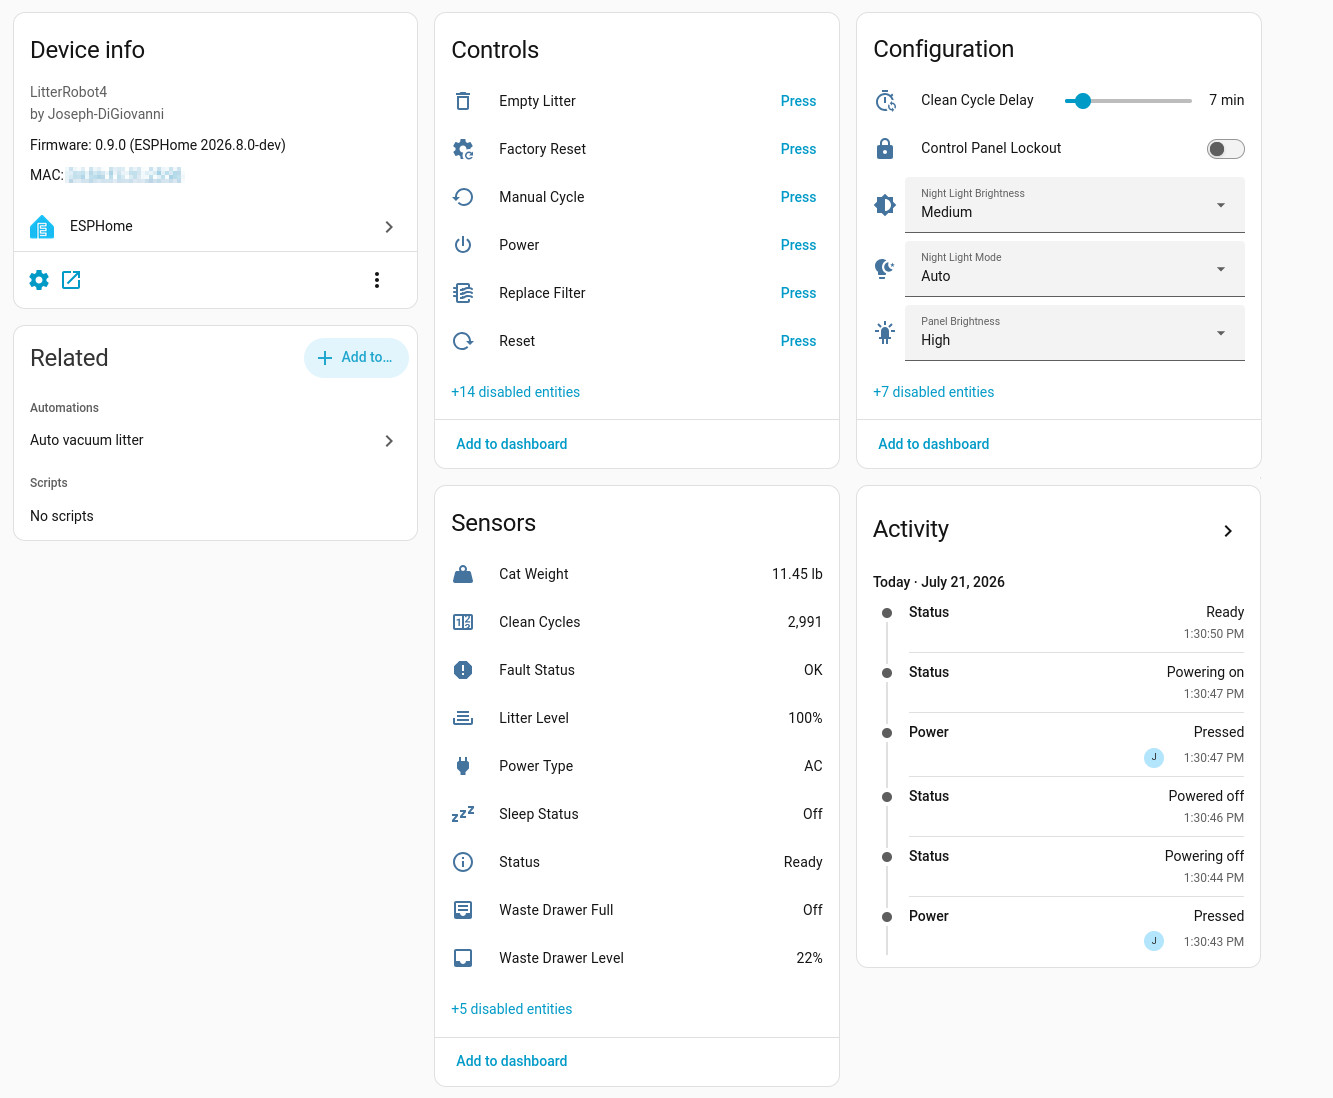
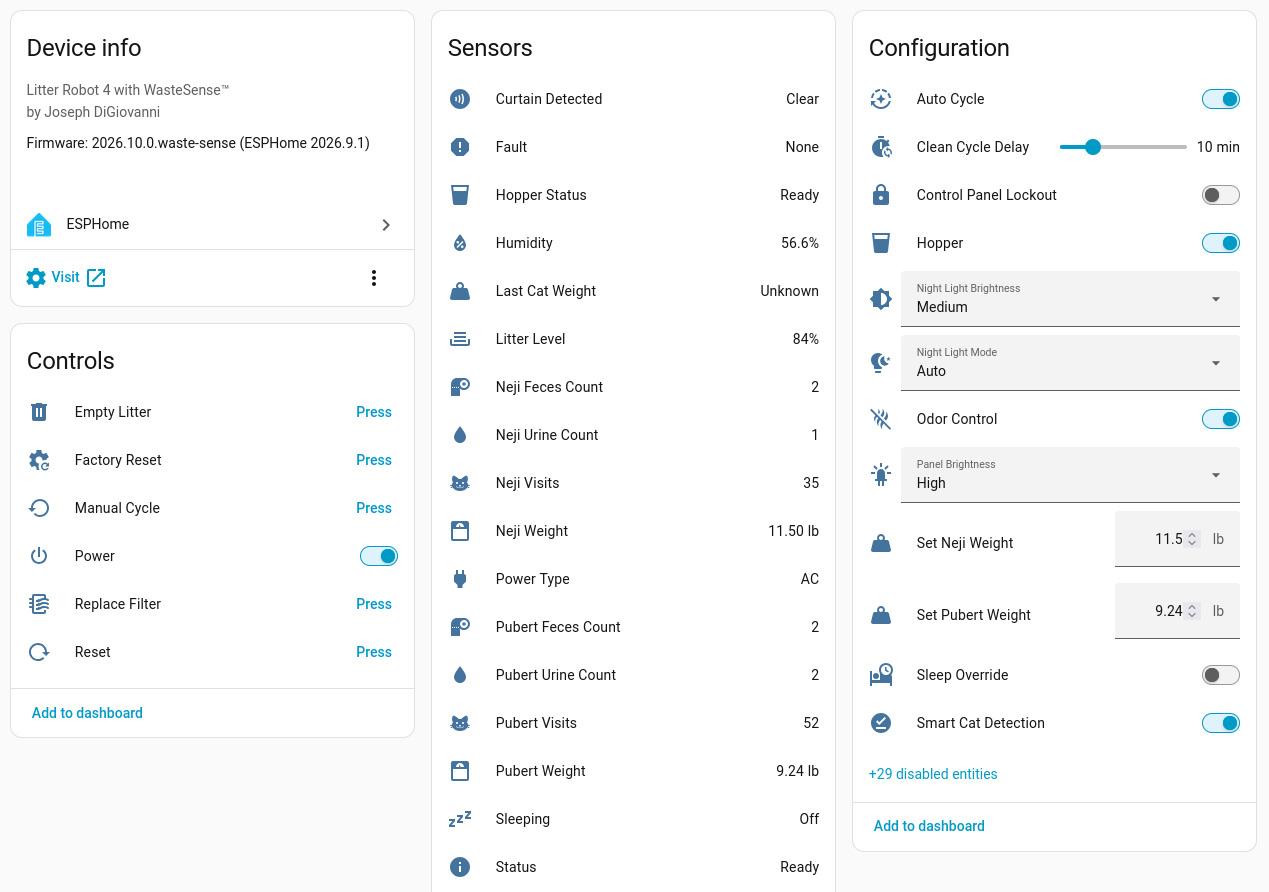
Update docs

diff --git a/docs/Litter Robot 4/Flashing Instructions.md b/docs/Litter Robot 4/Flashing Instructions.md
@@ -1,6 +1,6 @@
 # Litter Robot 4 - Firmware Flashing Guide
 
-This guide covers replacing the stock ESP32 firmware on the Litter Robot 4 mainboard with custom ESPHome firmware. The process is fully reversible and you can restore the original firmware at any time. After ESPHome is on the device, future updates can be delivered wirelessly ([OTA](#updating-the-firmware-ota)).
+This guide covers replacing the stock ESP32 firmware on the Litter Robot 4 mainboard with custom ESPHome firmware. The process is fully reversible and you can restore the original firmware at any time. After ESPHome is on the device, future updates can be delivered wirelessly ([OTA](User%20Guide.md#updating-the-firmware-ota)).
 
 Feel free to join the [Discord server](https://discord.gg/NrMdSAkPsx) for assistance or discussion, before and after install!
 
@@ -26,13 +26,13 @@ There are 2 known major revisions of the Litter Robot 4 mainboard. Both will wor
 
 - **USB-C cable**
 
-### For serial numbers starting with "LR4C":
+### For Serial Numbers Starting with "LR4C":
 
 - **Soldering iron** (fine/curved tip) and solder
 
 - [**1.27mm (0.05") pitch 2x3 6 position surface-mount header**](https://www.ebay.com/itm/336714254669) (sold directly by me in the US) - Also available from [DigiKey](https://www.digikey.com/en/products/detail/sullins-connector-solutions/GRPB032VWQS-RC/1786412) globally.
 
-### For serial numbers starting with "LR4S":
+### For Serial Numbers Starting with "LR4S":
 
 #### Option 1 - Solderless:
 
@@ -59,6 +59,8 @@ There are 2 known major revisions of the Litter Robot 4 mainboard. Both will wor
   ```
 
   The compiled binary will be in `./.esphome/build/litter-robot4/build/firmware.factory.bin` relative to the `.yaml` file.
+
+> If you intend to do the [WasteSense™](WasteSense%20Install.md) hardware modification, you should flash the `waste-sense` variant of the firmware from the precompiled release or build it with `litter-robot4-waste-sense.yaml`. You can also update to it later.
 
 ---
 
@@ -105,7 +107,7 @@ Unplug the larger power connector on the right side of the mainboard. Remove the
 To connect the ESP-Prog-2 to the mainboard to backup/flash the firmware, follow the instructions based on the serial number of your Litter Robot:
 
 <details>
-<summary>For serial numbers starting with "LR4C"</summary>
+<summary>For Serial Numbers Starting with "LR4C"</summary>
 <br>
 
 Plug the included 6 pin ribbon cable into the top right header on the ESP-Prog-2. It should be keyed to only plug in one way, with pin 1 (indicated by a pink wire) on the left side.
@@ -132,7 +134,7 @@ The mainboard must be powered externally to read/write the flash of the ESP32. I
 </details>
 
 <details>
-<summary>For serial numbers starting with "LR4S"</summary>
+<summary>For Serial Numbers Starting with "LR4S"</summary>
 <br>
 
 The mainboard has 5 unpopulated through-hole pads on the left side next to the ESP32, it is labeled "J3". You will need to scrape off the thin layer of conformal coating on them to make electrical contact. A fine fiberglass brush is ideal for this, but you can do it gently with a razor blade or other sharp object. Just be careful not to cut any traces.
@@ -232,68 +234,13 @@ Hard resetting via RTS pin...
 
 ---
 
-## First Boot & Setup
+## Reassembly
 
-On first boot, the ESPHome firmware will start in **WiFi access point mode** with a captive portal:
+Now that the new firmware is flashed, you can once again follow [Whisker's official video guide for replacing the laser board](https://youtu.be/m9pkoDCwM14?t=128) from 2:08 to reassemble, or just follow the disassembly instructions in reverse.
 
-1. Connect to the WiFi network `litter-robot4-XXXXXX` (password: `Wh1sk3rM30wM30w`).
+## Next Steps
 
-2. A captive portal should appear. If it doesn't, navigate to `http://192.168.4.1` in a browser.
-
-3. Select your home WiFi network and enter its password. The LR4 will reboot and connect to your network.
-
-### Reassembly
-
-Now that you've verified the new firmware is working, you can once again follow [Whisker's official video guide for replacing the laser board](https://youtu.be/m9pkoDCwM14?t=128) from 2:08 to reassemble, or just follow the disassembly instructions in reverse.
-
-### Adding to Home Assistant
-
-The device should be auto-discovered by the ESPHome integration. If it doesn't appear, add it manually with the device's hostname or IP address.
-
-> The hostname is usually the same name as the access point earlier. You can find the hostname or IP in your router device list.
-
-All entities will now be available in Home Assistant. Some may be disabled by default to avoid cluttering your dashboard. You can enable them in the device page.
-
-![Home Assistant](Images/Home%20Assistant.JPG)
-
-#### Sleep Schedules
-
-Independent sleep schedules for every day of the week are supported. Each day has three entities:
-
-- A day-enable switch (e.g. "Sunday Sleep Schedule") that turns that day's schedule on or off.
-- A sleep time and a wake time (e.g. "Sunday Sleep Time" and "Sunday Wake Time").
-
-Enable the days you want to schedule and set their sleep and wake times. The schedule runs on the mainboard's real-time clock, which is kept in sync with local time from Home Assistant.
-
-#### Multi-Cat Tracking
-
-The precompiled firmware includes weight, visit-count, and reset entities for four cats. To track a cat:
-
-1. Rename the cat's entities with the desired names.
-2. To seed a starting weight, enable the cat's **Set Cat N Weight** number and set your best guess. Enable the matching **Cat N Weight** sensor to see the value the tracker is currently using.
-3. Enable the cat's visit entities if you want to see and chart them.
-
-The firmware matches each new weight reading to the nearest configured cat weight and increments that cat's visit counter, replacing the guessed weight with a real measurement over time. There is a 0.6 pound detection tolerance to avoid obviously false readings by default. Use a cat's reset button (e.g. **Cat 1 Reset**) to clear that cat's stored weight and counters (the Litter Robot's own Factory Reset does not clear the tracker data).
-
-### Web Server
-
-The default configuration hosts a web server from the device IP address. The default username is `user` and the password is `Wh1sk3rM30wM30w`.
-
-### Adopting in ESPHome Dashboard
-
-The configuration can be "adopted" into [ESPHome Device Builder](https://desktop.esphome.io/) for further configuration. It should automatically show up at the top of the dashboard in a "Discovered Devices" tab. The auto-generated config imports the `litter-robot4.yaml` from this repository as a base package.
-
----
-
-## Updating the Firmware (OTA)
-
-Once ESPHome is installed, future firmware updates can be applied over the air without reopening the unit. This process is automated in the ESPHome Device Builder dashboard, but you can also update via the web server:
-
-1. Download the latest OTA update file (`.ota`) from the latest [LR4 release](https://codeberg.org/Joseph-DiGiovanni/esphome-litter-robot/releases?q=LR4%2F).
-
-2. Open the device's web interface using the hostname or IP of the device in a browser. The default username is `user` and the password is `Wh1sk3rM30wM30w`.
-
-3. At the bottom, use the "OTA Update" file selector to select the downloaded OTA update file and click update. Be sure to not use the `.bin` file or the update will fail.
+Power the unit back on and continue with the [User Guide](User%20Guide.md) to provision the device and add it to Home Assistant.
 
 ---
 

diff --git a/docs/Litter Robot 4/User Guide.md b/docs/Litter Robot 4/User Guide.md
@@ -1,0 +1,92 @@
+# Litter Robot 4 - User Guide
+
+This guide covers provisioning the device and the features this firmware adds on top of the stock Litter Robot 4. Standard operation is mostly unchanged, so you can refer to the official manual and troubleshooting guides for anything not mentioned here.
+
+> This guide assumes the ESPHome firmware is already flashed. If you have not done that yet, start with the [Firmware Flashing Guide](Flashing%20Instructions.md).
+
+Feel free to join the [Discord server](https://discord.gg/NrMdSAkPsx) for assistance or discussion.
+
+---
+
+## Initial Setup
+
+On first boot, the ESPHome firmware will start in **WiFi access point (AP) mode** indicated by a flashing yellow LED under the connect button. Follow these steps to connect it to WiFi:
+
+1. Connect to the WiFi network `litter-robot4-XXXXXX` (password: `Wh1sk3rM30wM30w`).
+
+2. A captive portal should appear. If it doesn't, navigate to `http://192.168.4.1` in a browser.
+
+3. Select your WiFi network and enter its password. The Litter Robot will reboot and connect to your network. A solid blue LED under the connect button indicates it connected successfully.
+
+## Adding to Home Assistant
+
+The device should be auto-discovered by the ESPHome integration. If it doesn't appear, add it manually with the device's hostname or IP address.
+
+> The hostname is usually the same name as the access point earlier. You can find the hostname or IP in your router device list.
+
+All entities will now be available in Home Assistant. Many are disabled by default to keep the device page tidy; enable the ones you want via the "disabled entities" button under each section.
+
+![Home Assistant](Images/Home%20Assistant.JPG)
+
+---
+
+## Smart Cat Detection
+
+Enabled by default. This switch requires **both** the weight and curtain sensors to agree before a visit is confirmed. This greatly reduces false detections and wasted clean cycles. You may want to disable this feature if you have kittens that are very small, or another condition causing the sensors not to activate reliably.
+
+## Auto Cycle
+
+When turned **off**, the robot will not automatically start a clean cycle after a cat visit. Instead the firmware clears the pending cycle, so you can decide when to run a manual cycle. This is helpful for jumpy cats that may be frightened by the automatic cycle, or small kittens that may not be reliably detected by the device's safety mechanisms.
+
+Hidden in Home Assistant by default, enable the entity to use it.
+
+## Multi-Cat Tracking
+
+The precompiled firmware tracks weight and visit counts for four cats. These instructions assume you are using this default layout. To start tracking your cat:
+
+1. Enable the desired cat tracking entities for the numbered cat in Home Assistant under "disabled entities" for the various categories.
+2. Rename the numbered cat's entities with the desired cat name.
+3. To set a starting weight, enable and set the `Set Cat N Weight` number input to your best guess.
+
+Be sure to enable the matching `Cat N Weight` sensor. While the number input holds the same value, it is not tracked long term by Home Assistant.
+
+The Cat Tracker component matches each new weight reading to the nearest known cat weight and increments that cat's visit counter, replacing the input weight with a real measurement. There is a 0.6 pound tolerance by default to avoid obviously false readings. Use a cat's reset button (e.g. `Cat N Tracker Reset`) to clear that cat's stored weight and counters. The Litter Robot's `Factory Reset` does not clear the tracker data.
+
+If you have WasteSense™ installed, each cat also gets `Feces Count` and `Urine Count` sensors.
+
+### Syncing Across Multiple Robots
+
+Each robot keeps its own tracker state, so with more than one unit the learned weights and counters will drift apart. Home Assistant helpers can act as a shared source of truth: an `input_number` per cat's weight, kept in sync with every robot's `Set Cat N Weight`, and a summed helper for the count sensors.
+
+A specific implementation is beyond the scope of this guide - if you build a blueprint or similar, contributions are welcome!
+
+## WasteSense™ and Odor Control
+
+[WasteSense™](WasteSense%20Install.md) utilizes an optional BME680 sensor to classify waste as feces or urine, similar to Whisker's "WasteID". It requires flashing the **`litter-robot4-waste-sense.yaml`** firmware and soldering the sensor to the mainboard.
+
+- **Odor Control** - when enabled, the robot cycles much sooner after a feces visit, rather than waiting for the full clean cycle delay.
+- **Odor Control Delay** - how long that faster cycle should be (default 1 minute).
+
+Feces is confirmed by the sensor, but urine is only assumed when no feces is detected. You will get false urine identifications if a cat enters without urinating. If your cat regularly does both in one visit, increase `Odor Control Delay` so urine has some time to clump before cycling.
+
+> The BME680 sensor needs a few minutes to warm up after power on before its readings stabilize. Allow a few minutes after boot before relying on `Odor Control`.
+
+## Web Server
+
+The firmware hosts a lightweight web server on the device's IP address for basic control and OTA updates. The default username is `user` and the password is `Wh1sk3rM30wM30w`. You can find the device IP in your router's device list.
+
+## Adopting in ESPHome Device Builder
+
+The configuration can be "adopted" into [ESPHome Device Builder](https://desktop.esphome.io/) for further configuration. It should automatically show up at the top of the dashboard in a "Discovered Devices" tab. The auto-generated config imports the `litter-robot4.yaml` from this repository as a base package, so you can layer your own customizations on top without losing upstream updates.
+
+## Updating the Firmware (OTA)
+
+Once ESPHome is installed, future firmware updates can be applied over the air without reopening the unit. This process is automated in the ESPHome Device Builder dashboard, but you can also update via the web server:
+
+1. Download the latest OTA update file (`.ota`) from the latest [LR4 release](https://codeberg.org/Joseph-DiGiovanni/esphome-litter-robot/releases?q=LR4%2F).
+
+2. Open the device's web interface using the hostname or IP of the device in a browser. The default username is `user` and the password is `Wh1sk3rM30wM30w`.
+
+3. At the bottom, use the "OTA Update" file selector to select the downloaded OTA update file and click update. Be sure to not use the `.bin` file or the update will fail.
+
+To return the device to the original Whisker firmware, see [Restoring the Stock Firmware](Flashing%20Instructions.md#restoring-the-stock-firmware).

diff --git a/README.md b/README.md
@@ -1,8 +1,12 @@
+<div align="center">
+
 # Litter Robot ESPHome Packages
 
-This repository hosts ESPHome packages relating to the Whisker Litter Robot, as well as instructions to flash ESPHome based firmware on it.
+This repository hosts ESPHome packages relating to the Whisker Litter Robot, as well as instructions to flash ESPHome-based firmware on it.
 
 [![Join the Discord](https://img.shields.io/badge/Discord-5865f2?style=for-the-badge&logo=discord&logoColor=f5f5f5)](https://discord.gg/NrMdSAkPsx) [![Get $50 off Litter-Robot](https://img.shields.io/badge/Get%20$50%20off%20Litter--Robot-fbb040?style=for-the-badge&logo=pipecat&logoColor=black)](https://share.litter-robot.com/x/x2zGcr) [![Donate via PayPal](https://img.shields.io/badge/Donate%20via%20PayPal-002991?style=for-the-badge&logo=paypal&logoColor=008cff)](https://www.paypal.com/paypalme/jdigi78)
+
+</div>
 
 ## Why?
 
@@ -12,11 +16,15 @@ Flashing the Litter Robot with ESPHome-based firmware eliminates the dependency 
 - **No internet required** - the device can connect to your smart home entirely offline, with no cloud outages or future service shutdowns to worry about.
 - **Customizable** - Add or modify functionality however you want.
 
+<div align="center">
+
 ![Home Assistant](docs/Litter%20Robot%204/Images/Home%20Assistant.JPG)
+
+</div>
 
 ## Is it safe?
 
-The ESP32 in the Litter Robot 3 and 4 serves as a WiFi-to-UART bridge that relays commands between the cloud and the mainboard PIC microcontroller. All hardware control and safety-critical logic comes from this separate microcontroller, so replacing the ESP32 firmware should not compromise safety mechanisms of the device in any way.
+The ESP32 in the Litter Robot 3 and 4 serves as a WiFi-to-UART bridge that relays commands between the cloud and the mainboard PIC microcontroller (units manufactured after February 2026 use an STM microcontroller instead; "PIC" here refers to either). All hardware control and safety-critical logic comes from this separate microcontroller, so replacing the ESP32 firmware should not compromise safety mechanisms of the device in any way.
 
 ## What devices are supported?
 
@@ -33,15 +41,15 @@ There are actually quite a few improvements over the stock firmware/app.
 
 **Major improvements include:**
 
-- Smart Cat Detection - Less false cat detections and wasted clean cycles. Makes sure both weight _and_ curtain sensor detections happen before confirming a cat visit.
-- WasteSense™ - Waste identification and odor control, similar to Whisker's "WasteID" found on the Litter Robot 5 and 5 Pro.
+- Smart Cat Detection - Fewer false cat detections and wasted clean cycles. Makes sure both weight _and_ curtain sensor detections happen before confirming a cat visit.
+- WasteSense™ - Waste identification and odor control, similar to Whisker's "WasteID" found on the Litter Robot 5.
 	- Requires soldering a sensor to the mainboard. [Instructions here](docs/Litter%20Robot%204/WasteSense%20Install.md).
 
 **Minor improvements:**
 
 - Litter hopper can be enabled/disabled via automations. (Not possible with existing Home Assistant integration)
 - Sleep schedules can be set on a daily basis instead of only one time for weekday/weekend.
-    - Sleep can be toggled with a manual "Sleep Override" switch for more advanced non-time based events.
+    - Sleep can be toggled with a manual "Sleep Override" switch for more advanced non-time-based events.
 - More direct access to the curtain and weight detection sensors, for precise enter and exit tracking.
 
 ## Is it reversible?
@@ -50,7 +58,7 @@ The original firmware can be flashed back to the ESP32 to fully restore the devi
 
 ## How do I install it?
 
-The initial firmware flashing requires connecting an [ESP-Prog-2 development board](https://amzn.to/4vMhlyv) (Affiliate Link) to an unpopulated header on the mainboard. Units manufactured after February 2026 (Serial starting with "LR4S") can be flashed without soldering, but older units will require soldering. Full instructions and required tools/parts can be found in the [Firmware Flashing Guide](docs/Litter%20Robot%204/Flashing%20Instructions.md).
+The initial firmware flashing requires connecting an [ESP-Prog-2 development board](https://amzn.to/4vMhlyv) (Affiliate Link) to an unpopulated header on the mainboard. Units manufactured after February 2026 (serial numbers starting with "LR4S") can be flashed without soldering, but older units will require soldering. Full instructions and required tools/parts can be found in the [Firmware Flashing Guide](docs/Litter%20Robot%204/Flashing%20Instructions.md).
 
 Additionally, you can [add a BME680 sensor](docs/Litter%20Robot%204/WasteSense%20Install.md) to enable WasteSense™, an alternative to Whisker's "WasteID" found on the Litter Robot 5.
 
@@ -59,6 +67,8 @@ The source code for the component can be found in my [ESPHome fork](https://gith
 ## Where can I learn more?
 
 Feel free to join the [Discord](https://discord.gg/NrMdSAkPsx) for assistance or discussion, before and after install!
+
+See the [Litter Robot 4 User Guide](docs/Litter%20Robot%204/User%20Guide.md) for how to use the firmware's features.
 
 See the [Litter Robot 4 UART Reference](docs/Litter%20Robot%204/UART%20Reference.md) for a full breakdown of the mainboard serial protocol.
 

diff --git a/docs/Litter Robot 4/UART Reference.md b/docs/Litter Robot 4/UART Reference.md
@@ -122,7 +122,7 @@ Determines how long to wait before starting a clean cycle after a cat has no lon
 
 ### Control Panel Lockout 0x17
 
-State of the control panel lock. Panel inputs will be ignored, including [simulated ones](#51-simulated-control-panel-input).
+State of the control panel lock. Panel inputs will be ignored, including [simulated ones](#5-1-simulated-control-panel-input).
 
 ### Night Light Options 0x18/0x19
 
@@ -199,7 +199,7 @@ Boolean value indicating the current time is within a [sleep schedule](#sleep-sc
 
 ### Globe Fault Status 0x35
 
-Not all faults are well understood. Names used by the Whisker API are placeholders for a better confirmed meaning.
+Not all faults are well understood. Names used by the Whisker API are placeholders until a better meaning is confirmed.
 
 | Value  | Meaning                   |
 |--------|---------------------------|
@@ -229,7 +229,7 @@ Boolean, inverted; 0 = OK, 1 = bonnet removed. Tracks the same state as status `
 
 ### Night Light 0x3B
 
-Boolean; current state of the night light inside the globe. Controlled via the [night light mode](#night-light-options-0x180x19).
+Boolean; current state of the night light inside the globe. Controlled via the [night light mode](#night-light-options-0x18-0x19).
 
 ### USB Power 0x04
 
@@ -247,7 +247,7 @@ Boolean; current state of the night light inside the globe. Controlled via the [
 
 `0x01XX` and `0x10XX`/`0x20XX` are published in order during the hopper motor run but their values and meaning are unclear. The high byte is the only consistent pattern.
 
-With no sensors or means of communication with the Litter Robot, the Hopper not dispensing litter or being empty must be inferred from the [litter level reading](#litter--drawer-level) not recovering after a few cycles.
+With no sensors or means of communication with the Litter Robot, the Hopper not dispensing litter or being empty must be inferred from the [litter level reading](#litter-drawer-level) not recovering after a few cycles.
 
 ### Odometers
 
@@ -269,7 +269,7 @@ With no sensors or means of communication with the Litter Robot, the Hopper not 
 | `0x47`   | Litter level            | Raw distance value. 480=empty, 435<=full |
 | `0x69`   | Calibrated litter level | Raw distance value. Used by hopper logic |
 
-Waste drawer full (`0x44`) is set to true after 3 consecutive readings of the waste drawer percentage (`0x43`) over 80%. Each cycle after will increment cycles since full (`0x45`). After cycles since full is equal to 3 the robot will refuse to detect cats or cycle manually until the reset button is pushed. 
+Waste drawer full (`0x44`) is set to true after 3 consecutive readings of the waste drawer percentage (`0x43`) over 80%. Each subsequent cycle increments cycles since full (`0x45`). Once cycles since full reaches 3, the robot will refuse to detect cats or cycle manually until the reset button is pressed.
 
 The reset command clears `0x44` and `0x42` when the robot is in the [Ready](#robot-status-0x34) state; if the drawer was not actually emptied they will return to their previous states.
 

diff --git a/docs/Litter Robot 4/WasteSense Install.md b/docs/Litter Robot 4/WasteSense Install.md
@@ -1,6 +1,6 @@
 # Litter Robot 4 - WasteSense™ Sensor Install Guide
 
-This small modification makes your Litter Robot 4 capable of identifying the type of waste, similar to Whisker's "WasteID". This information is used to better control odors by cycling much sooner when feces is detected.
+This small modification makes your Litter Robot 4 capable of identifying the type of waste, similar to Whisker's "WasteID". This information is used to better control odors by cycling much sooner after a feces visit.
 
 > Disclaimer: This project is not affiliated with, endorsed by, or associated with Whisker, Litter Robot, or Automated Pet Care Products. Modifying your device involves hardware disassembly and modification which may void your warranty and carries a risk of permanent damage. Proceed at your own risk.
 
@@ -123,4 +123,4 @@ The following sensors are also available, but disabled by default:
 
 There is also a disabled slider called `Odor Control Delay` to configure the specific cycle delay for feces when `Odor Control` is enabled.
 
-Feces is confirmed by the sensor, but urine is only assumed. If your cat does both at the same time frequently, disable `Odor Control` so the urine has time to clump during the normal cycle delay.
+Feces is confirmed by the sensor, but urine is only assumed. If your cat does both at the same time frequently, increase `Odor Control Delay` so urine has some time to clump before cycling.
